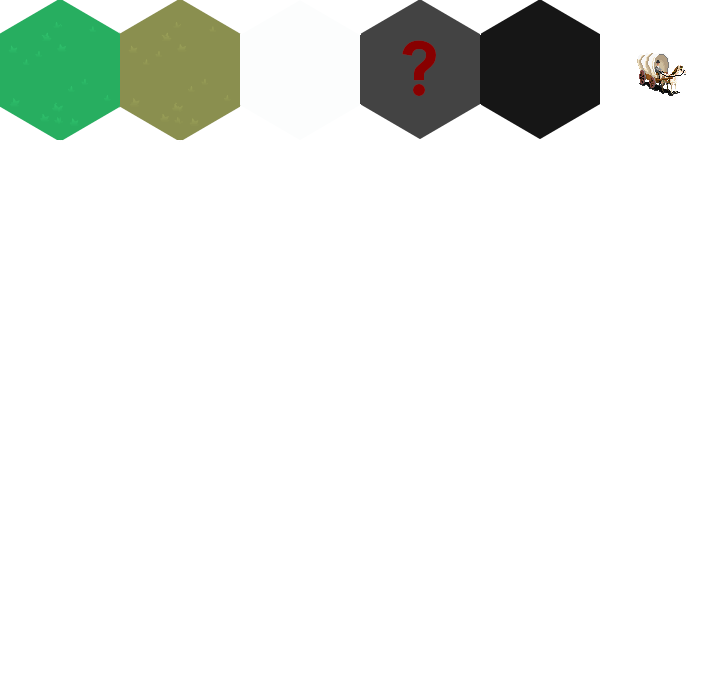
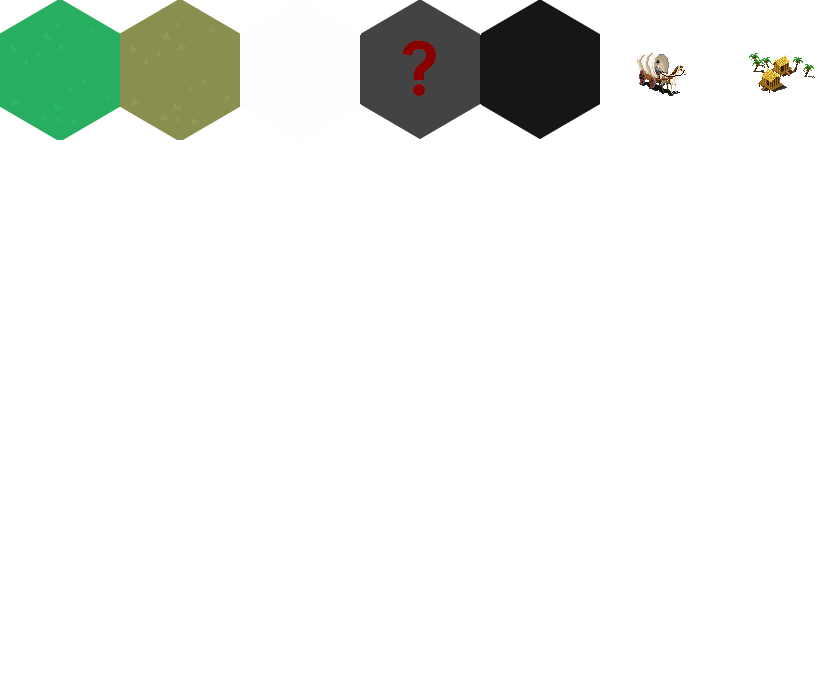
feat:; display units

diff --git a/crates/civ_gui/src/map/refresh.rs b/crates/civ_gui/src/map/refresh.rs
@@ -100,6 +100,7 @@ pub fn react_game_slice_updated(
                     .collect::<Vec<CtxTile<Tile>>>()
             },
             HexTile,
+            0.0,
         );
 
         // Cities
@@ -122,6 +123,7 @@ pub fn react_game_slice_updated(
                     .collect::<Vec<ClientCity>>()
             },
             City,
+            1.0,
         );
 
         // Units
@@ -144,6 +146,7 @@ pub fn react_game_slice_updated(
                     .collect::<Vec<ClientUnit>>()
             },
             Unit,
+            1.0,
         );
 
         if !camera_initialized.0 && center.0.is_some() {
@@ -163,6 +166,7 @@ fn spawn_game_slice<F, T, C>(
     current: &mut ResMut<CurrentCenter>,
     getter: F,
     component: C,
+    z: f32,
 ) where
     F: Fn(&WorldPoint) -> Vec<T>,
     T: Displayable + Clone + Send + Sync + 'static,
@@ -213,7 +217,7 @@ fn spawn_game_slice<F, T, C>(
                             }),
                             ..default()
                         },
-                        Transform::from_xyz(relative_point.x, relative_point.y, 0.0),
+                        Transform::from_xyz(relative_point.x, relative_point.y, z),
                     );
 
                     #[cfg(feature = "debug_tiles")]

diff --git a/crates/civ_gui/src/utils/assets.rs b/crates/civ_gui/src/utils/assets.rs
@@ -29,7 +29,7 @@ impl Displayable for CtxTile<Tile> {
 
 impl Displayable for ClientUnit {
     fn atlas_index(&self) -> AtlasIndex {
-        AtlasIndex(4)
+        AtlasIndex(5)
     }
 }
 
